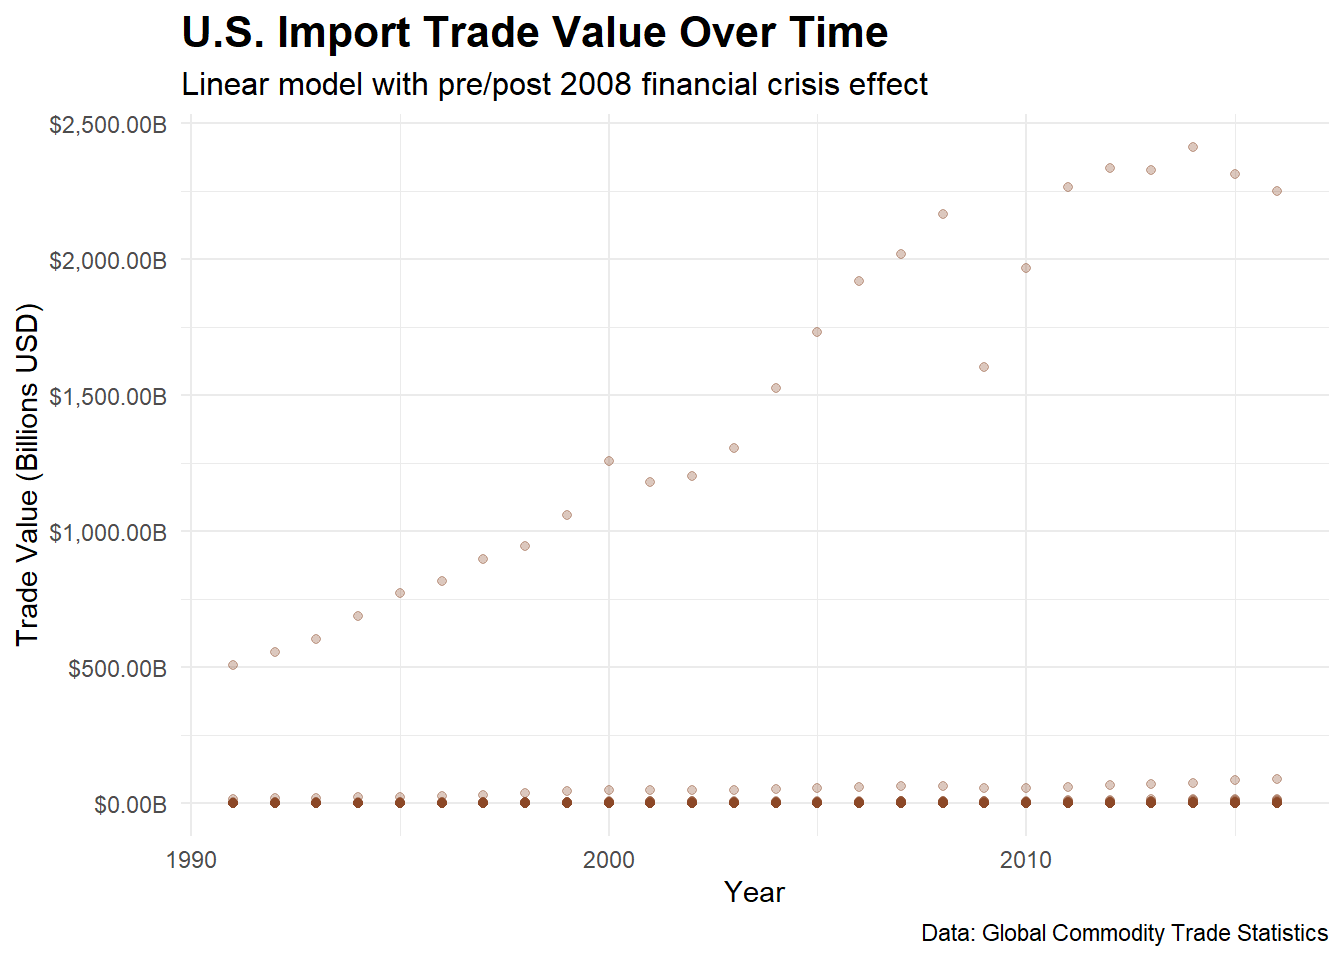
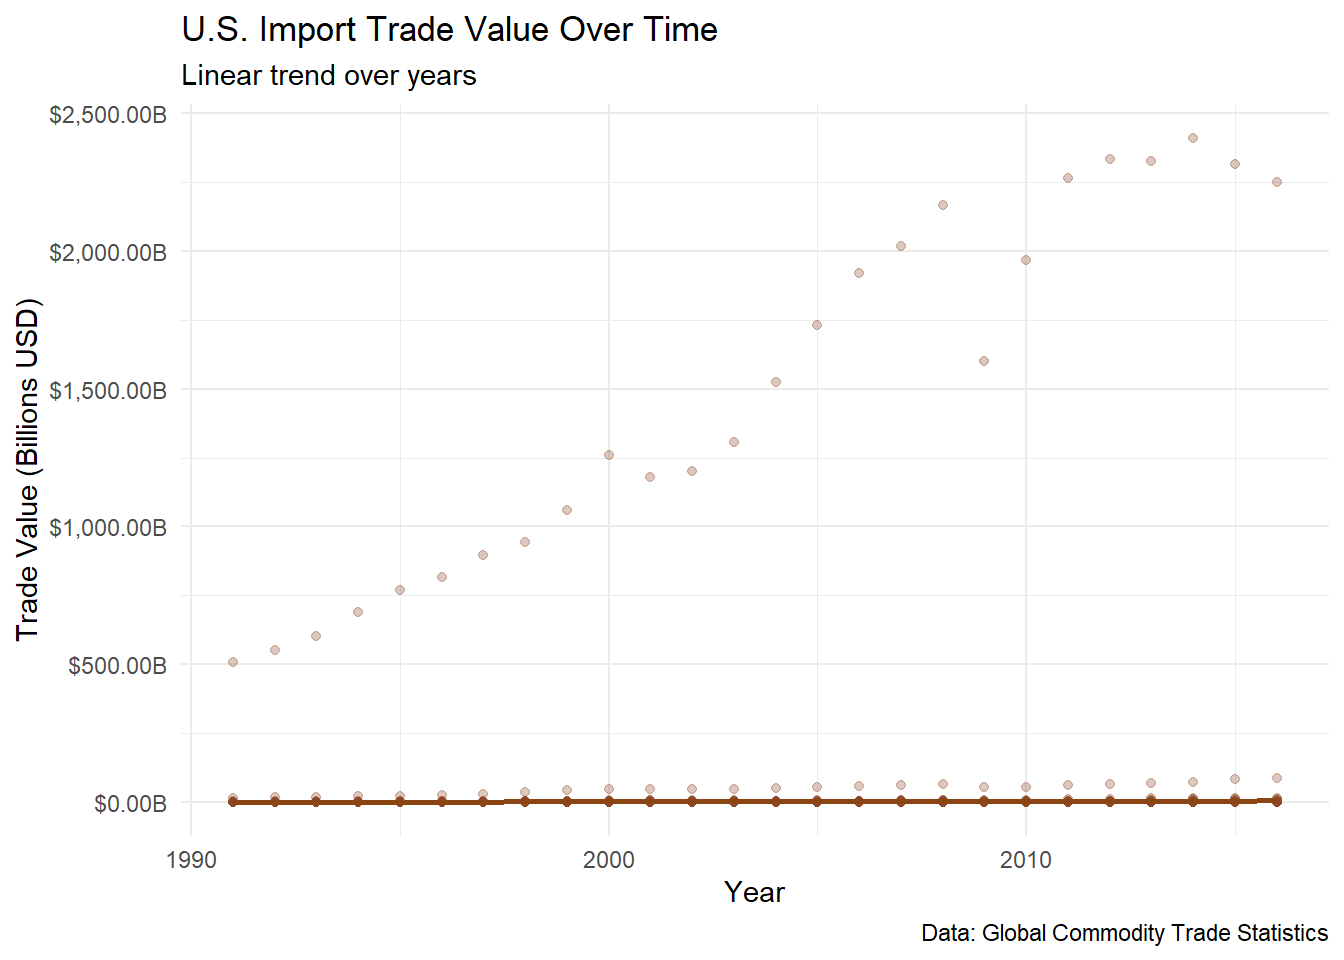
map change

diff --git a/_site/gct.html b/_site/gct.html
@@ -1046,31 +1046,24 @@ F-statistic: 2.467 on 2 and 12064 DF,  p-value: 0.08487</code></pre>
 <span id="cb2-177"><a href="#cb2-177" aria-hidden="true" tabindex="-1"></a><span class="in">```</span></span>
 <span id="cb2-178"><a href="#cb2-178" aria-hidden="true" tabindex="-1"></a></span>
 <span id="cb2-181"><a href="#cb2-181" aria-hidden="true" tabindex="-1"></a><span class="in">```{r}</span></span>
-<span id="cb2-182"><a href="#cb2-182" aria-hidden="true" tabindex="-1"></a><span class="fu">library</span>(ggplot2)</span>
-<span id="cb2-183"><a href="#cb2-183" aria-hidden="true" tabindex="-1"></a></span>
-<span id="cb2-184"><a href="#cb2-184" aria-hidden="true" tabindex="-1"></a><span class="co"># Plot trade value over time with crisis periods colored</span></span>
-<span id="cb2-185"><a href="#cb2-185" aria-hidden="true" tabindex="-1"></a><span class="fu">ggplot</span>(us_all_imports, <span class="fu">aes</span>(<span class="at">x =</span> year, <span class="at">y =</span> trade_usd)) <span class="sc">+</span></span>
-<span id="cb2-186"><a href="#cb2-186" aria-hidden="true" tabindex="-1"></a>  <span class="fu">geom_point</span>(<span class="at">alpha =</span> <span class="fl">0.3</span>, <span class="at">color =</span> <span class="st">"sienna4"</span>) <span class="sc">+</span></span>
-<span id="cb2-187"><a href="#cb2-187" aria-hidden="true" tabindex="-1"></a>  <span class="fu">geom_smooth</span>(<span class="at">method =</span> <span class="st">"lm"</span>, <span class="at">formula =</span> y <span class="sc">~</span> x <span class="sc">+</span> crisis, <span class="at">color =</span> <span class="st">"saddlebrown"</span>, <span class="at">se =</span> <span class="cn">TRUE</span>) <span class="sc">+</span></span>
-<span id="cb2-188"><a href="#cb2-188" aria-hidden="true" tabindex="-1"></a>  <span class="fu">scale_y_continuous</span>(<span class="at">labels =</span> scales<span class="sc">::</span><span class="fu">dollar_format</span>(<span class="at">scale =</span> <span class="fl">1e-9</span>, <span class="at">suffix =</span> <span class="st">"B"</span>)) <span class="sc">+</span></span>
-<span id="cb2-189"><a href="#cb2-189" aria-hidden="true" tabindex="-1"></a>  <span class="fu">labs</span>(</span>
-<span id="cb2-190"><a href="#cb2-190" aria-hidden="true" tabindex="-1"></a>    <span class="at">title =</span> <span class="st">"U.S. Import Trade Value Over Time"</span>,</span>
-<span id="cb2-191"><a href="#cb2-191" aria-hidden="true" tabindex="-1"></a>    <span class="at">subtitle =</span> <span class="st">"Linear model with pre/post 2008 financial crisis effect"</span>,</span>
-<span id="cb2-192"><a href="#cb2-192" aria-hidden="true" tabindex="-1"></a>    <span class="at">x =</span> <span class="st">"Year"</span>,</span>
-<span id="cb2-193"><a href="#cb2-193" aria-hidden="true" tabindex="-1"></a>    <span class="at">y =</span> <span class="st">"Trade Value (Billions USD)"</span>,</span>
-<span id="cb2-194"><a href="#cb2-194" aria-hidden="true" tabindex="-1"></a>    <span class="at">caption =</span> <span class="st">"Data: Global Commodity Trade Statistics"</span></span>
-<span id="cb2-195"><a href="#cb2-195" aria-hidden="true" tabindex="-1"></a>  ) <span class="sc">+</span></span>
-<span id="cb2-196"><a href="#cb2-196" aria-hidden="true" tabindex="-1"></a>  <span class="fu">theme_minimal</span>(<span class="at">base_family =</span> <span class="st">"Segoe UI"</span>) <span class="sc">+</span></span>
-<span id="cb2-197"><a href="#cb2-197" aria-hidden="true" tabindex="-1"></a>  <span class="fu">theme</span>(</span>
-<span id="cb2-198"><a href="#cb2-198" aria-hidden="true" tabindex="-1"></a>    <span class="at">plot.title =</span> <span class="fu">element_text</span>(<span class="at">face =</span> <span class="st">"bold"</span>, <span class="at">size =</span> <span class="dv">16</span>),</span>
-<span id="cb2-199"><a href="#cb2-199" aria-hidden="true" tabindex="-1"></a>    <span class="at">plot.subtitle =</span> <span class="fu">element_text</span>(<span class="at">size =</span> <span class="dv">12</span>)</span>
-<span id="cb2-200"><a href="#cb2-200" aria-hidden="true" tabindex="-1"></a>  )</span>
-<span id="cb2-201"><a href="#cb2-201" aria-hidden="true" tabindex="-1"></a></span>
-<span id="cb2-202"><a href="#cb2-202" aria-hidden="true" tabindex="-1"></a><span class="in">```</span></span>
-<span id="cb2-203"><a href="#cb2-203" aria-hidden="true" tabindex="-1"></a></span>
-<span id="cb2-204"><a href="#cb2-204" aria-hidden="true" tabindex="-1"></a>Trade value (trade_usd) is regressed on year, controlling for country_or_area and commodity fixed effects. The year coefficient shows the average yearly change in trade value, holding country and commodity constant.</span>
-<span id="cb2-205"><a href="#cb2-205" aria-hidden="true" tabindex="-1"></a></span>
-<span id="cb2-206"><a href="#cb2-206" aria-hidden="true" tabindex="-1"></a>###</span>
+<span id="cb2-182"><a href="#cb2-182" aria-hidden="true" tabindex="-1"></a><span class="fu">ggplot</span>(us_all_imports, <span class="fu">aes</span>(<span class="at">x =</span> year, <span class="at">y =</span> trade_usd)) <span class="sc">+</span></span>
+<span id="cb2-183"><a href="#cb2-183" aria-hidden="true" tabindex="-1"></a>  <span class="fu">geom_point</span>(<span class="at">alpha =</span> <span class="fl">0.3</span>, <span class="at">color =</span> <span class="st">"sienna4"</span>) <span class="sc">+</span></span>
+<span id="cb2-184"><a href="#cb2-184" aria-hidden="true" tabindex="-1"></a>  <span class="fu">geom_smooth</span>(<span class="at">method =</span> <span class="st">"lm"</span>, <span class="at">formula =</span> y <span class="sc">~</span> x, <span class="at">color =</span> <span class="st">"saddlebrown"</span>, <span class="at">se =</span> <span class="cn">TRUE</span>) <span class="sc">+</span></span>
+<span id="cb2-185"><a href="#cb2-185" aria-hidden="true" tabindex="-1"></a>  <span class="fu">scale_y_continuous</span>(<span class="at">labels =</span> scales<span class="sc">::</span><span class="fu">dollar_format</span>(<span class="at">scale =</span> <span class="fl">1e-9</span>, <span class="at">suffix =</span> <span class="st">"B"</span>)) <span class="sc">+</span></span>
+<span id="cb2-186"><a href="#cb2-186" aria-hidden="true" tabindex="-1"></a>  <span class="fu">labs</span>(</span>
+<span id="cb2-187"><a href="#cb2-187" aria-hidden="true" tabindex="-1"></a>    <span class="at">title =</span> <span class="st">"U.S. Import Trade Value Over Time"</span>,</span>
+<span id="cb2-188"><a href="#cb2-188" aria-hidden="true" tabindex="-1"></a>    <span class="at">subtitle =</span> <span class="st">"Linear trend over years"</span>,</span>
+<span id="cb2-189"><a href="#cb2-189" aria-hidden="true" tabindex="-1"></a>    <span class="at">x =</span> <span class="st">"Year"</span>,</span>
+<span id="cb2-190"><a href="#cb2-190" aria-hidden="true" tabindex="-1"></a>    <span class="at">y =</span> <span class="st">"Trade Value (Billions USD)"</span>,</span>
+<span id="cb2-191"><a href="#cb2-191" aria-hidden="true" tabindex="-1"></a>    <span class="at">caption =</span> <span class="st">"Data: Global Commodity Trade Statistics"</span></span>
+<span id="cb2-192"><a href="#cb2-192" aria-hidden="true" tabindex="-1"></a>  ) <span class="sc">+</span></span>
+<span id="cb2-193"><a href="#cb2-193" aria-hidden="true" tabindex="-1"></a>  <span class="fu">theme_minimal</span>(<span class="at">base_family =</span> <span class="st">"Segoe UI"</span>)</span>
+<span id="cb2-194"><a href="#cb2-194" aria-hidden="true" tabindex="-1"></a></span>
+<span id="cb2-195"><a href="#cb2-195" aria-hidden="true" tabindex="-1"></a><span class="in">```</span></span>
+<span id="cb2-196"><a href="#cb2-196" aria-hidden="true" tabindex="-1"></a></span>
+<span id="cb2-197"><a href="#cb2-197" aria-hidden="true" tabindex="-1"></a>Trade value (trade_usd) is regressed on year, controlling for country_or_area and commodity fixed effects. The year coefficient shows the average yearly change in trade value, holding country and commodity constant.</span>
+<span id="cb2-198"><a href="#cb2-198" aria-hidden="true" tabindex="-1"></a></span>
+<span id="cb2-199"><a href="#cb2-199" aria-hidden="true" tabindex="-1"></a>###</span>
 </code><button title="Copy to Clipboard" class="code-copy-button" data-in-quarto-modal=""><i class="bi"></i></button></pre></div>
 </div></div></div></div></div>
 </div> <!-- /content -->
